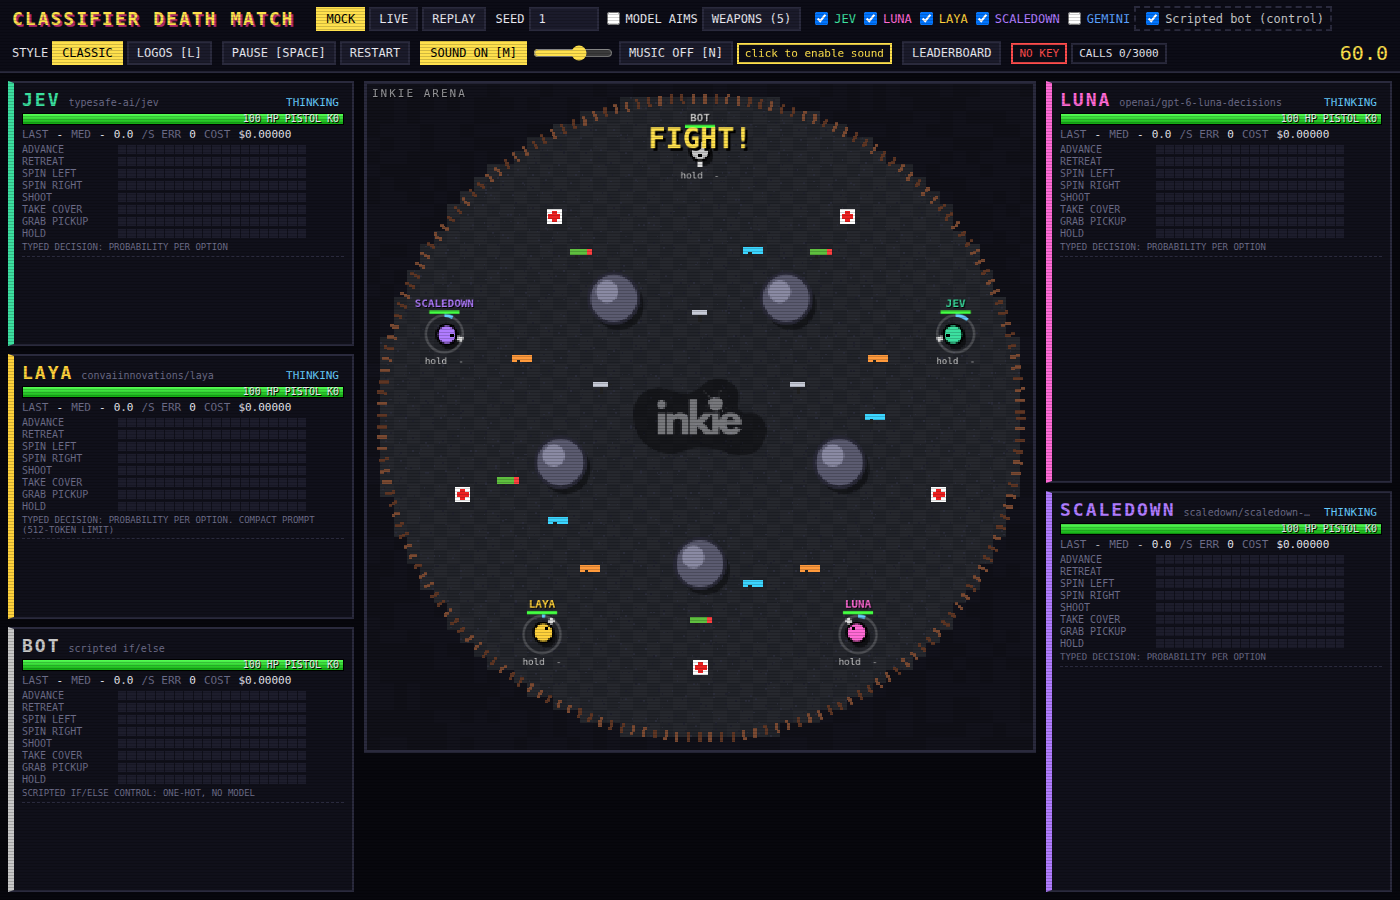
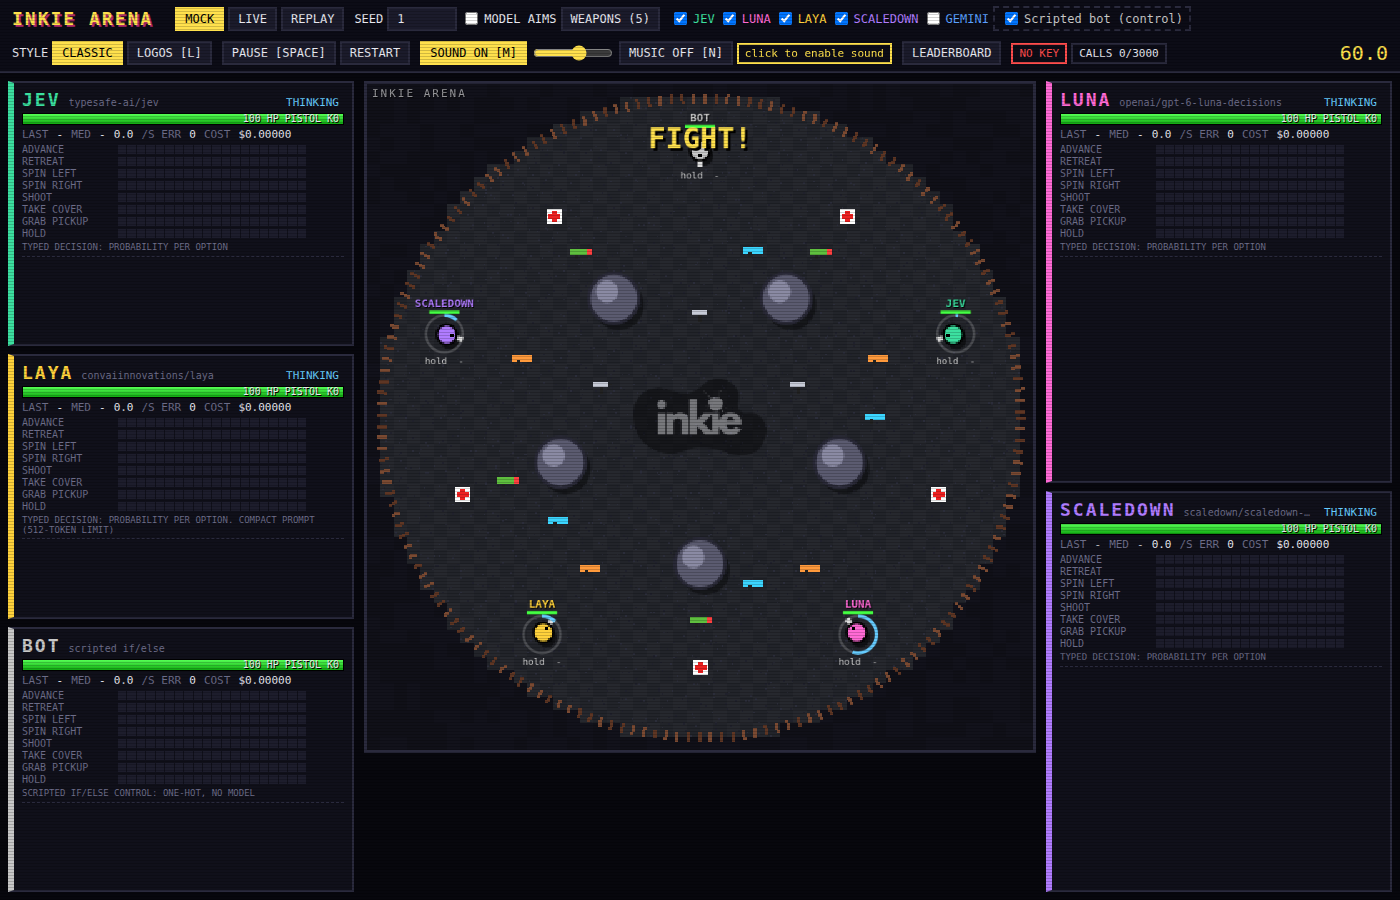
feat: rename the game to Inkie Arena
Page title and header, README, package name and description, and the
server startup line (and the test that waits for it). Screenshots
regenerated. README no longer claims the bundled examples keep the
legacy strafe action names; they were regenerated with spin names.

Claude-Session: https://claude.ai/code/session_018uNaFhmK6yxSR7XfzJDY3Z

Changed region(s): [[0.0, 0.0, 0.9521, 0.0311], [0.6143, 0.6844, 0.645, 0.7156]]

diff --git a/test/autoplay.test.js b/test/autoplay.test.js
@@ -198,7 +198,7 @@ test('offline proxy integration on 8795: USD cap, status, and concurrent atomic 
   try {
     await new Promise((resolve, reject) => {
       const timer = setTimeout(() => reject(new Error(`proxy startup timeout: ${stderr}`)), 5000);
-      child.stdout.on('data', (b) => { if (String(b).includes('Classifier Arena on')) { clearTimeout(timer); resolve(); } });
+      child.stdout.on('data', (b) => { if (String(b).includes('Inkie Arena on')) { clearTimeout(timer); resolve(); } });
       child.once('exit', () => { clearTimeout(timer); reject(new Error(`proxy exited: ${stderr}`)); });
     });
     const post = (route, body) => fetch(`http://127.0.0.1:8795${route}`, { method: 'POST', headers: { 'Content-Type': 'application/json' }, body: JSON.stringify(body) });

diff --git a/public/index.html b/public/index.html
@@ -3,7 +3,7 @@
 <head>
 <meta charset="utf-8">
 <meta name="viewport" content="width=device-width, initial-scale=1">
-<title>Classifier Death Match</title>
+<title>Inkie Arena</title>
 <link rel="icon" href="data:,">
 <style>
   :root {
@@ -142,7 +142,7 @@
 </head>
 <body>
 <header>
-  <h1>CLASSIFIER DEATH MATCH</h1>
+  <h1>INKIE ARENA</h1>
   <div class="grp" id="modes">
     <button data-mode="mock">Mock</button>
     <button data-mode="live">Live</button>

diff --git a/server.js b/server.js
@@ -173,5 +173,5 @@ const server = http.createServer(async (req, res) => {
 });
 
 server.listen(PORT, HOST, () => {
-  console.log(`Classifier Arena on http://${HOST}:${PORT}  key loaded: ${KEY ? 'yes' : 'no (mock and replay only)'}  call budget: ${BUDGET}`);
+  console.log(`Inkie Arena on http://${HOST}:${PORT}  key loaded: ${KEY ? 'yes' : 'no (mock and replay only)'}  call budget: ${BUDGET}`);
 });

diff --git a/README.md b/README.md
@@ -1,12 +1,12 @@
-# Classifier Death Match
+# Inkie Arena
 
-Classifier Death Match is a small browser game where AI models fight each other. Four typed-decision classifiers (Jev, Luna, Laya and ScaleDown), plus an optional chat-model baseline (Gemini Flash) and an optional scripted bot, each steer a fighter in a top-down arena shooter. Every turn a model gets a bucketed description of the scene and picks one of eight intentions (advance, retreat, spin left or right, shoot, take cover, grab a pickup, hold). The game does the geometry. The simulation is deterministic, so every match can be replayed bit for bit from its log.
+Inkie Arena is a small browser game where AI models fight each other. Four typed-decision classifiers (Jev, Luna, Laya and ScaleDown), plus an optional chat-model baseline (Gemini Flash) and an optional scripted bot, each steer a fighter in a top-down arena shooter. Every turn a model gets a bucketed description of the scene and picks one of eight intentions (advance, retreat, spin left or right, shoot, take cover, grab a pickup, hold). The game does the geometry. The simulation is deterministic, so every match can be replayed bit for bit from its log.
 
-Matches take place in the **Inkie Arena**, a round arena with pillars for cover and the Inkie logo at its centre. Each round lasts 60 seconds: from 30 s the ring closes in toward the centre and hurts anyone left outside it, and when one fighter is left, or time runs out, the highest HP wins. Fighters start evenly spaced round the edge. Nothing spawns in the centre; the rifle, the strongest pickup, sits at symmetric off-centre spots, one per fighter, so no starting position is favoured.
+Matches take place in a round arena with pillars for cover and the Inkie logo at its centre. Each round lasts 60 seconds: from 30 s the ring closes in toward the centre and hurts anyone left outside it, and when one fighter is left, or time runs out, the highest HP wins. Fighters start evenly spaced round the edge. Nothing spawns in the centre; the rifle, the strongest pickup, sits at symmetric off-centre spots, one per fighter, so no starting position is favoured.
 
 It was built for a live talk on typed-decision models, as a fun way to show what a classifier that returns a probability per option feels like next to a chat model asked for JSON, and how much latency matters when the world keeps moving.
 
-![Classifier Death Match in the Inkie Arena, logos style](screenshots/arena-logos.png)
+![Inkie Arena, logos style](screenshots/arena-logos.png)
 
 No dependencies. Node 20 or later.
 
@@ -162,7 +162,7 @@ The simulation runs at a fixed 30 Hz with a seeded PRNG and no wall-clock input.
 
 `examples/` holds three bundled mock matches (four classifiers; with the bot; six fighters with every weapon). They appear at the end of the Replay list.
 
-Replay loading maps legacy `strafe_left` / `strafe_right` actions and probability keys to `spin_left` / `spin_right`. The movement and state hash are unchanged; the bundled examples retain their old names to test compatibility.
+Replay loading maps legacy `strafe_left` / `strafe_right` actions and probability keys to `spin_left` / `spin_right`. The movement and state hash are unchanged. The bundled examples use the current names.
 
 `npm run headless -- 5 1` plays five mock matches in virtual time with no browser, writes `logs/headless-mock-seed<N>.json` and replays each to check the hash. Add `--bot` to include the scripted bot.
 
